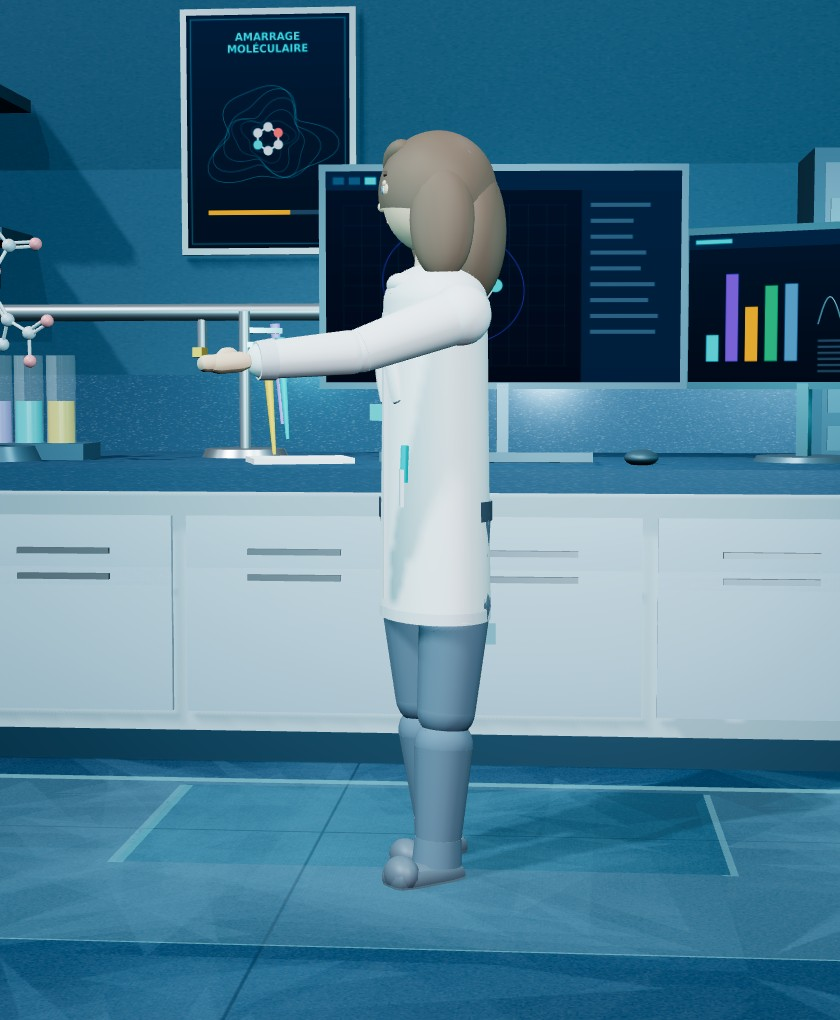
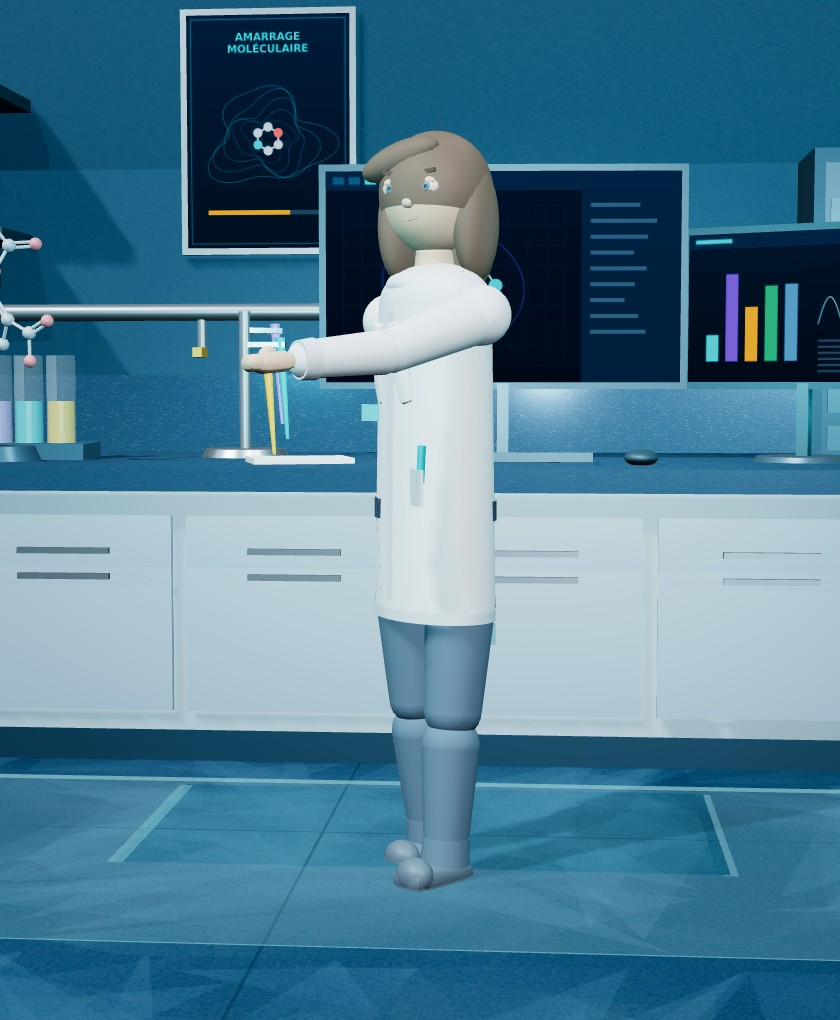
Écran de résultat : le visage du personnage reste offert au joueur
Sur le niveau « Maîtrise satisfaisante » (60-79 %), le personnage était
cadré de profil : le bras tendu vers l'écran de modélisation lisait bien,
mais le visage était entièrement caché. Sur un écran qui parle du
résultat de l'étudiant, celui-ci doit reconnaître son propre personnage.

Le corps garde son orientation vers le poste de travail, donc le geste
est intact ; seule la tête se tourne vers le joueur, comme un regard
par-dessus l'épaule.

- tools/render/scenes.js : cadrage du niveau 60 de -0.88 à -0.70 rad,
  buste de -0.34 à -0.30, tête de -0.26 à +0.54.
- images/resultat-60-h.jpg, images/resultat-60-f.jpg régénérées.

Les huit autres illustrations de fin sont inchangées : vérification faite
sur les dix, elles montraient déjà le visage. Le personnage d'accueil de
la diapositive 5 et les vignettes de l'écran de choix faisaient également
déjà face au joueur.

Aucun contenu scientifique ni pédagogique modifié ; ni le calcul du
score, ni les seuils de niveau, ni les messages.

Vérifications : les cinq niveaux chargent la bonne illustration pour
chacun des deux personnages, sans erreur JavaScript.

Claude-Session: https://claude.ai/code/session_015TmefFK7Gmwd8asqHhsmFB

diff --git a/jeu-drug-design/tools/render/scenes.js b/jeu-drug-design/tools/render/scenes.js
@@ -1119,9 +1119,11 @@ function poseFinale(perso, niveau) {
     u.bassin.rotation.z = 0.04;
     u.jambeG.rotation.x = 0.05; u.jambeD.rotation.x = -0.05;
   } else if (niveau === '60') {
-    // en activité : le bras tendu vers l'écran de modélisation
-    u.torse.rotation.y = -0.34;
-    u.tete.rotation.y = -0.26;
+    // en activité : le bras tendu vers l'écran de modélisation. Le buste
+    // se tourne vers l'écran mais le visage reste offert au joueur :
+    // c'est son propre personnage qu'il doit reconnaître.
+    u.torse.rotation.y = -0.30;
+    u.tete.rotation.y = 0.54;
     u.brasD.rotation.x = -1.24; u.brasD.rotation.z = 0.1;
     u.brasD.userData.coude.rotation.x = -0.24;
     u.brasG.rotation.x = 0.16;
@@ -1160,7 +1162,7 @@ function poseFinale(perso, niveau) {
 const CADRAGES_FINAL = {
   '100': { x: 2.2,  z: -1.7, rot: -0.22 },
   '80':  { x: 1.1,  z: -1.9, rot: -0.30 },
-  '60':  { x: 3.7,  z: -2.0, rot: -0.88 },
+  '60':  { x: 3.7,  z: -2.0, rot: -0.70 },
   '45':  { x: -0.5, z: -1.8, rot: -0.34 },
   '0':   { x: -1.8, z: -2.0, rot: -0.72 }
 };
